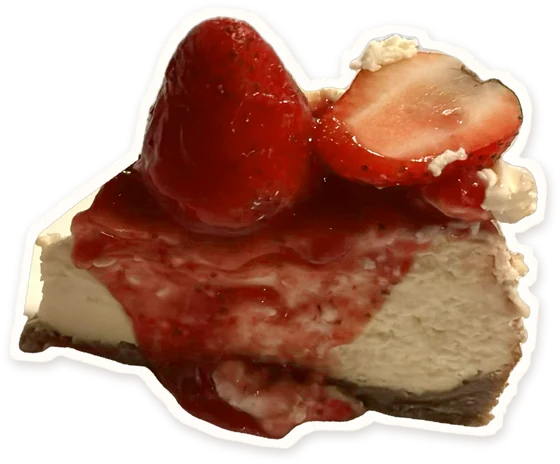
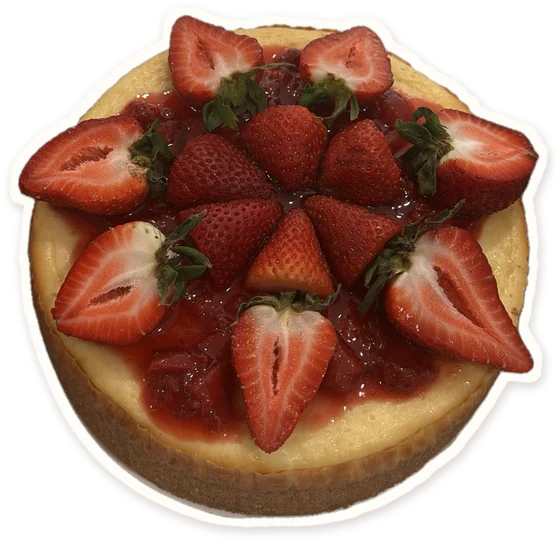
Cheesecakes card: sticker of the whole strawberry cheesecake
Claude-Session: https://claude.ai/code/session_01V7XCHPXALgJ1QJjj7BVSPW

diff --git a/src/components/desserts/cheesecake-card.jsx b/src/components/desserts/cheesecake-card.jsx
@@ -86,7 +86,7 @@ const CheesecakeCard = () => {
                 aria-hidden="true"
                 loading="lazy"
                 width={560}
-                height={464}
+                height={542}
                 className="pointer-events-none select-none absolute -top-12 right-3 w-40 md:top-auto md:-bottom-12 md:-right-6 md:w-40 lg:w-52 rotate-[6deg]"
             />
             {intro}
